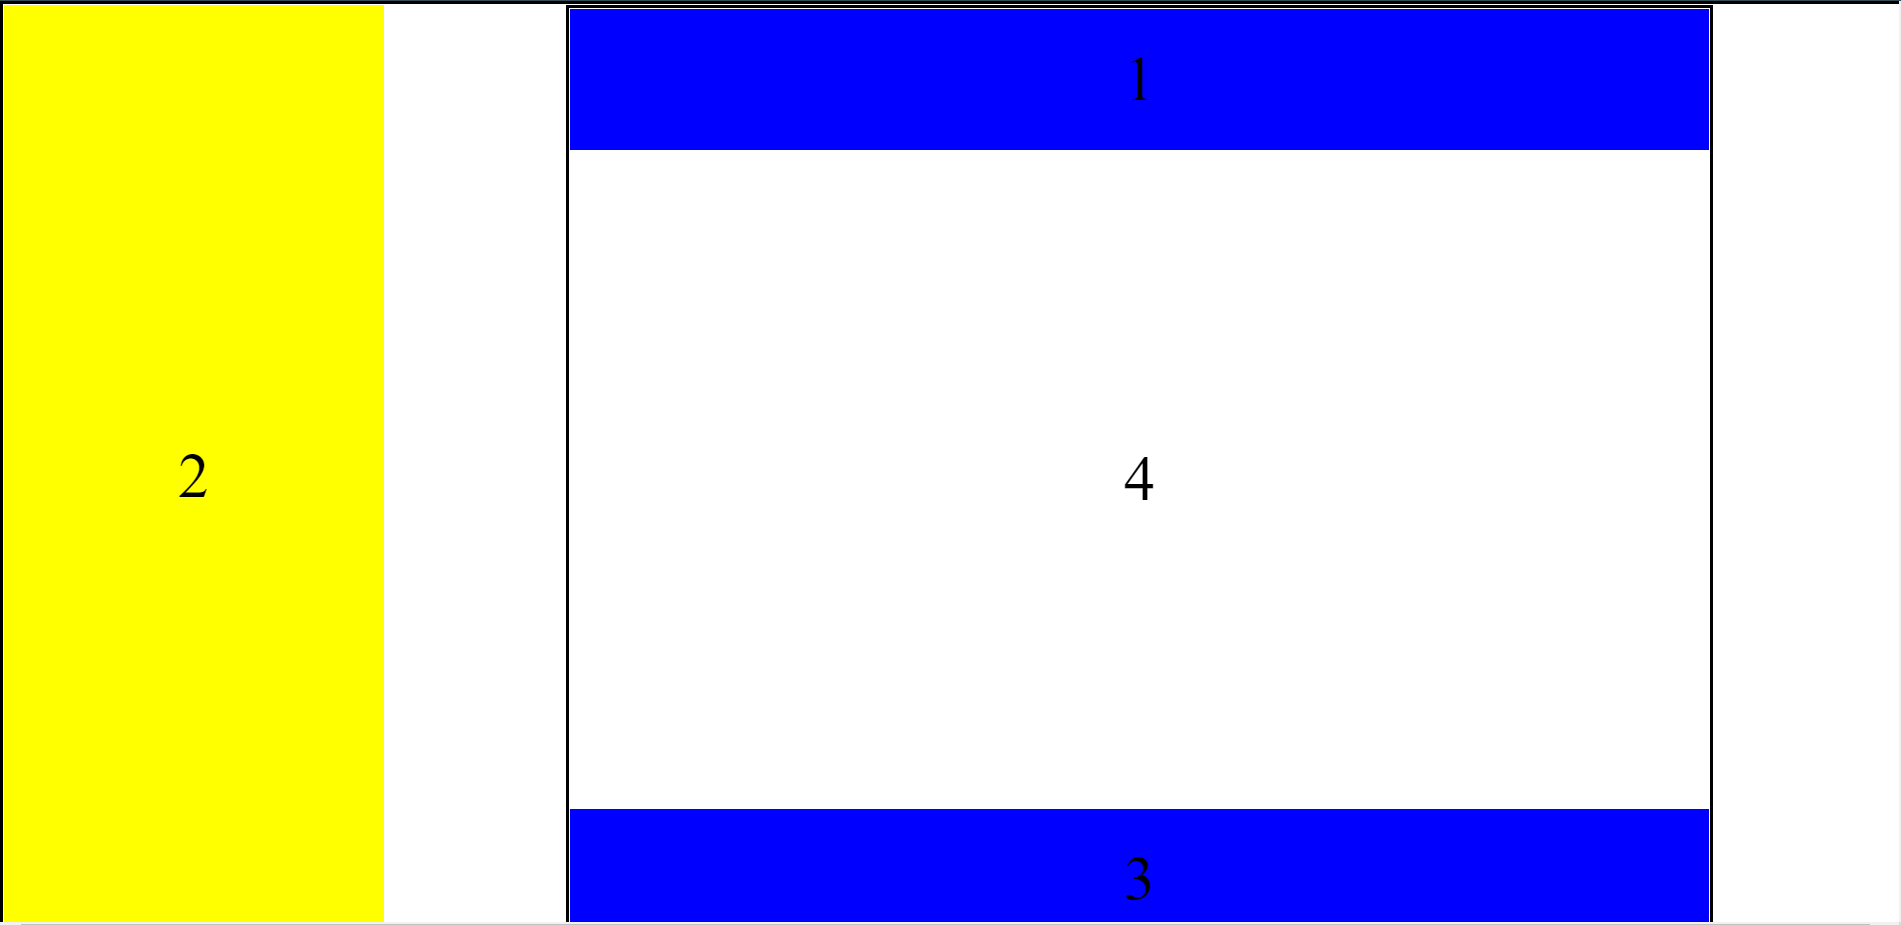
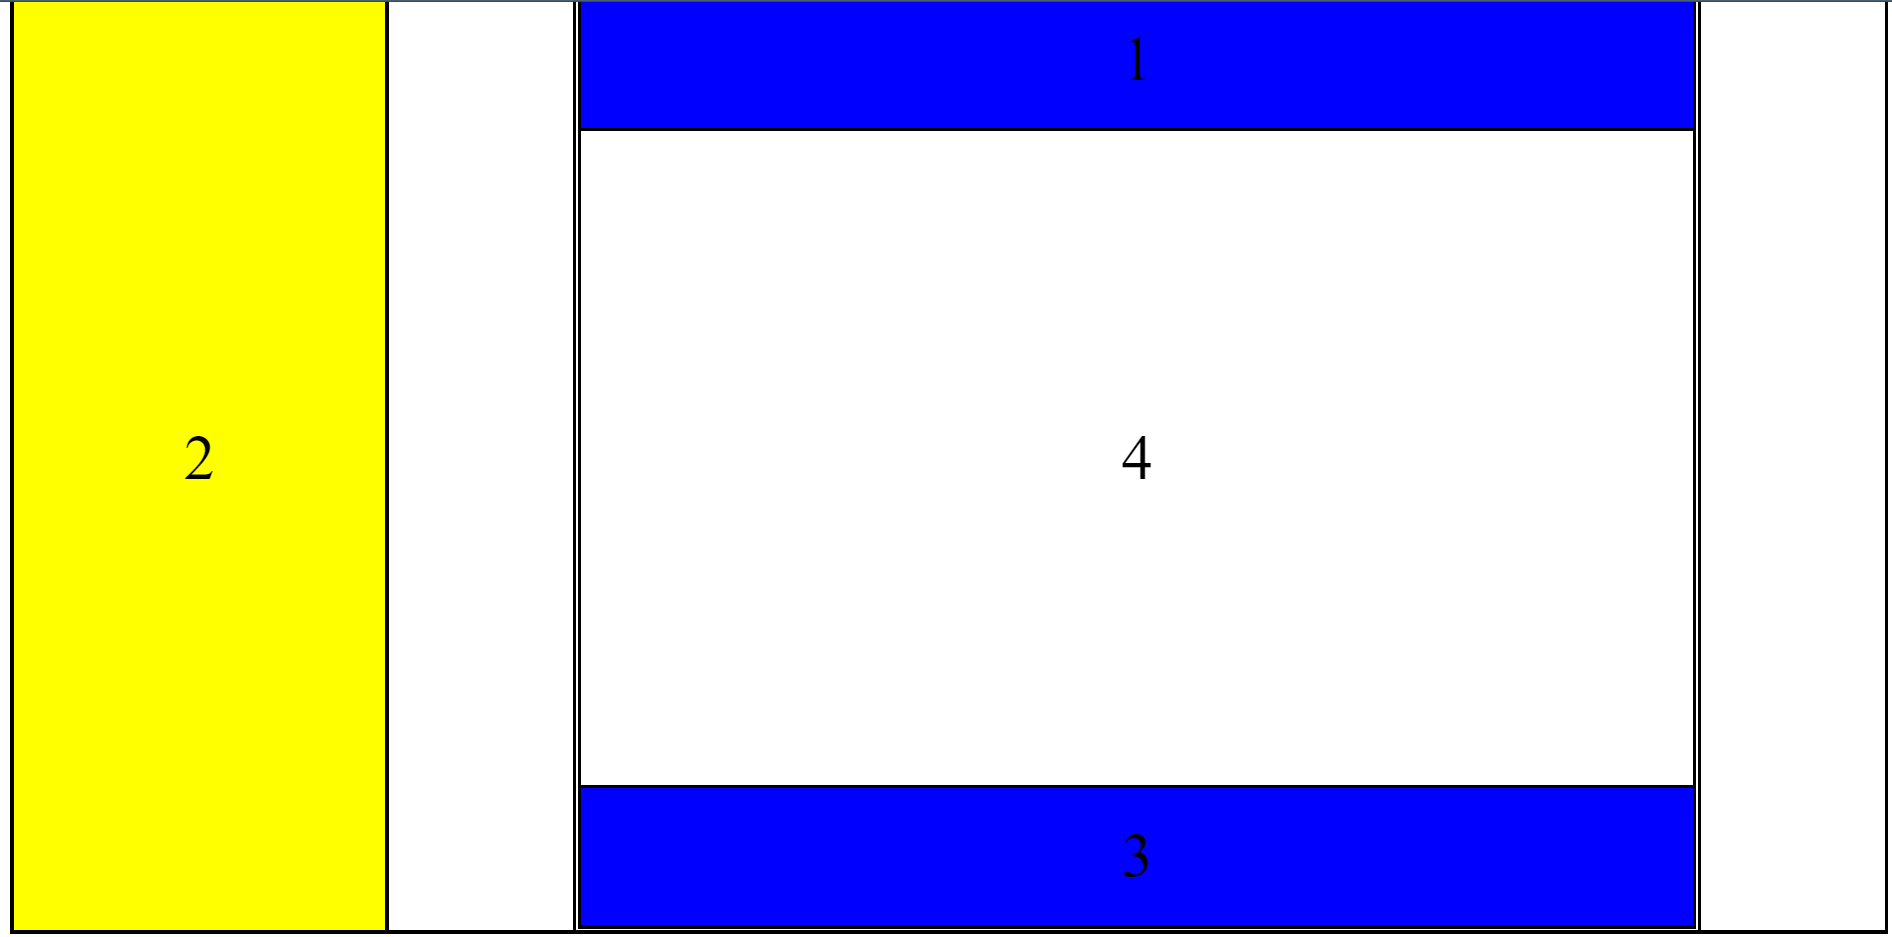
"lab3"

diff --git a/site/Lab3 models/tables/vova.html b/site/Lab3 models/tables/vova.html
@@ -1,0 +1,79 @@
+<!DOCTYPE html>
+<html lang="en">
+<head>
+    <meta charset="UTF-8">
+    <meta http-equiv="X-UA-Compatible" content="IE=edge">
+    <meta name="viewport" content="width=device-width, initial-scale=1.0">
+    <title>Table</title>
+    <style>
+        body{
+            text-align: center;
+            font-size: 50px;
+        }
+        table {
+            border: px solid;
+            border-collapse: collapse;
+            margin: auto;
+            height: 100vh;
+            width: 100%;
+        }
+        td{
+            border: 3px solid;
+        }
+        .yellow{
+            background-color: yellow;
+            width: 20%;
+        }
+        .blue{
+            background-color: blue;
+            height: 15%;
+        } 
+        .fields{
+            width: 10%;
+        }
+        .blue, .white{
+            width: 60%;
+        }
+        .white, .fields{
+            background-color: white;
+        }
+    </style>
+</head>
+<body>
+    <div>
+        <table>
+            <tr>
+                <td class="yellow" rowspan="3">2</td>
+                <td class="fields" rowspan="3"></td>
+                <td class="blue">1</td>
+                <td class="fields" rowspan="3"></td>
+            </tr>
+
+            <tr>
+                <td class="white">4</td>
+            </tr>
+
+            <tr>
+                <td class="blue">3</td>
+            </tr>      
+        </table>
+    </div>    
+        <br>
+    <div>
+        <table>
+            <tr>
+                <td class="yellow">2</td>
+                <td class="fields"></td>
+                <td>
+                    <table>
+                        <tr><td class="blue">1</td></tr>
+                        <tr><td class="white">4</td></tr>
+                        <tr><td class="blue">3</td></tr>
+                    </table>
+                </td>
+                <td class="fields"></td>
+            </tr>
+        </table>
+    </div>
+</body>
+</html>
